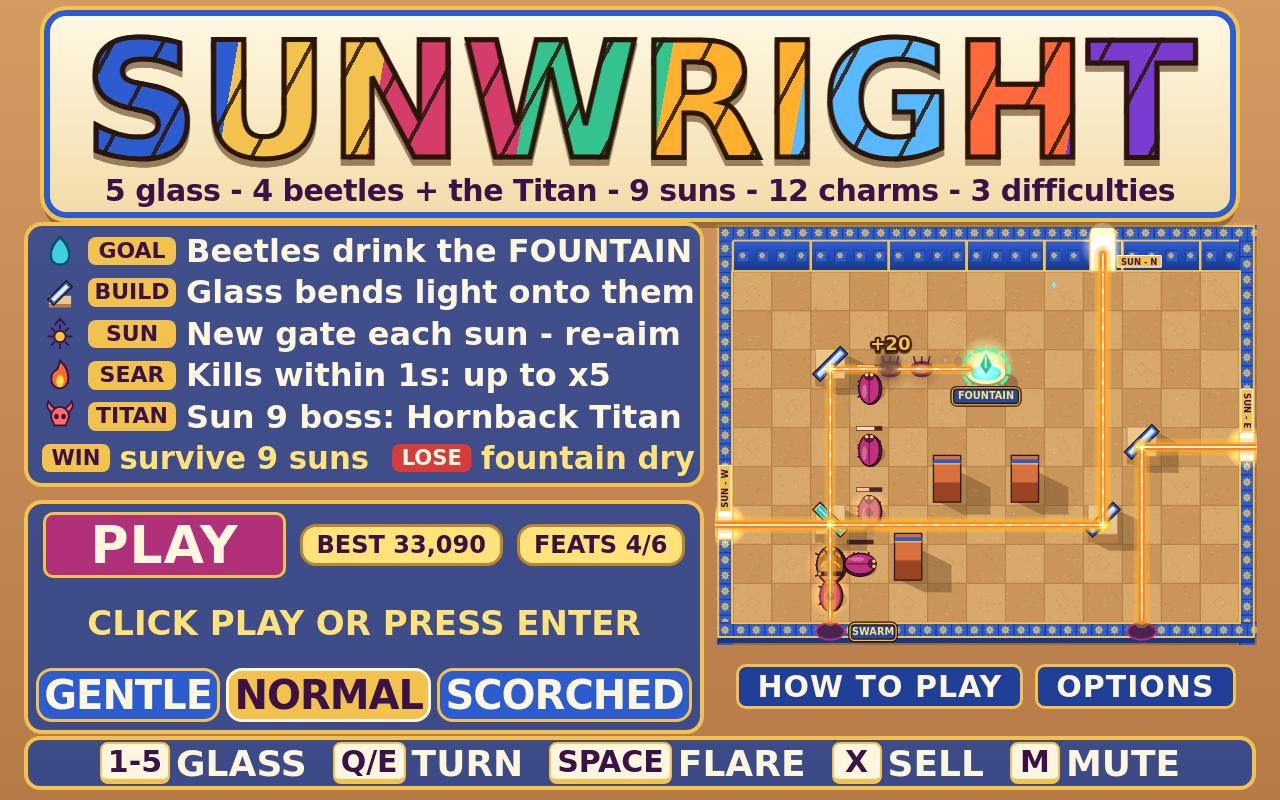
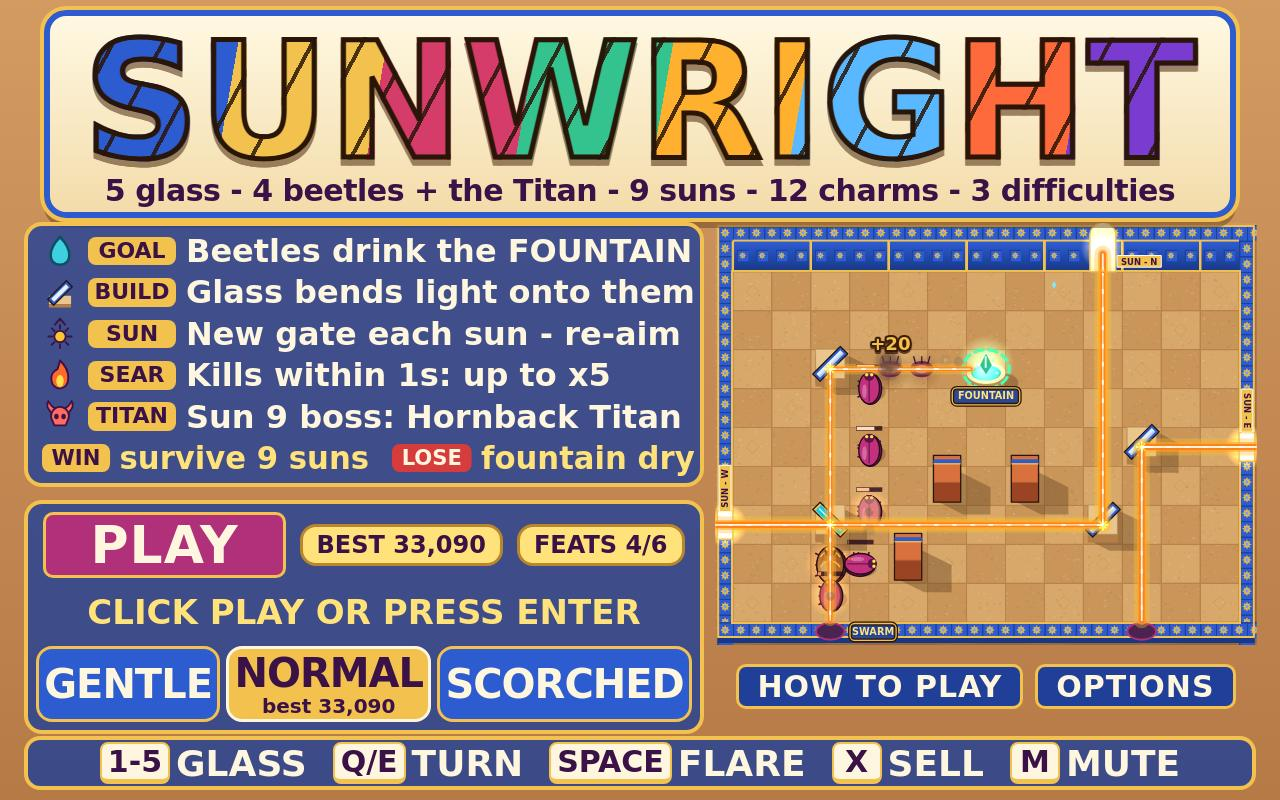
Title: best N under the selected difficulty again (fits the card; checked against the save)

Changed region(s): [[0.0, 0.75, 0.5625, 0.9062]]

diff --git a/game/style.css b/game/style.css
@@ -32,8 +32,9 @@ button.big:hover { background: #cf3f93; }
 .featcount { font: 900 24px system-ui, sans-serif; color: #3b1247; background: #ffe27a; border: 3px solid #b8862c; border-radius: 16px; padding: 4px 14px; white-space: nowrap; }
 .start-hint { margin: 0; font: 900 34px system-ui, sans-serif; color: #ffe27a; white-space: nowrap; letter-spacing: 0; }
 .picker { display: flex; gap: 6px; width: 100%; }
-.diff { flex: 1 1 auto; display: flex; justify-content: center; align-items: center; padding: 2px 4px; background: #2d5bd0; border-radius: 16px; letter-spacing: -1px; }
+.diff { flex: 1 1 auto; display: flex; flex-direction: column; justify-content: center; align-items: center; padding: 2px 4px; background: #2d5bd0; border-radius: 16px; letter-spacing: -1px; }
 .diff b { font-size: 40px; line-height: 1.1; }
+.diff small { font: 800 20px system-ui, sans-serif; letter-spacing: 0; line-height: 1.1; }
 .diff.on { background: #f2c14e; color: #3b1247; border-color: #fff6df; }
 .title-links { position: absolute; left: 716px; right: 24px; top: 664px; display: flex; justify-content: center; gap: 12px; }
 .title-links button { font-size: 30px; padding: 2px 18px; }

diff --git a/game/src/ui/menus.js b/game/src/ui/menus.js
@@ -56,7 +56,10 @@ export function renderOptions(settings) {
 /** Difficulty buttons (one word each; the BEST chip shows the selected one's best), the scope line, the rules table. */
 export function showTitle(menus, bestFor, selected) {
   el('difficulty-picker').innerHTML = DIFFICULTY_ORDER.map((id) => {
-    return `<button class="diff ${id === selected ? 'on' : ''}" data-action="difficulty" data-arg="${id}"><b>${DIFFICULTIES[id].name}</b></button>`;
+    // The selected difficulty also shows its saved best under its name.
+    const best = id === selected ? bestFor(id) : null;
+    const line = best?.played ? `<small>best ${best.score.toLocaleString('en-US')}</small>` : '';
+    return `<button class="diff ${id === selected ? 'on' : ''}" data-action="difficulty" data-arg="${id}"><b>${DIFFICULTIES[id].name}</b>${line}</button>`;
   }).join('');
   el('rule-scope').textContent = SCOPE_LINE;
   el('feats-count').textContent = `FEATS ${loadFeats().length}/${FEATS.length}`;

diff --git a/NOTES.md b/NOTES.md
@@ -369,6 +369,9 @@
   combat.runLine, checked against the save's best before the run) and the charm names (14 px short
   names under 48 px icons). Spacing trimmed to fit the 24 px margin (rank ring 104 px).
 
+- Restore item 4: title keeps the 6-row rules table and one-word difficulty buttons; the selected one
+  shows `best 33,090` under its name (20 px; checked against the save and the title-card bounds).
+
 ## Next
 - READY FOR A/B (01:00 UTC): bold beams + the three cues on top of 61673e1 (FEATS, GLASS legend,
   INCOMING tags, HUD buttons, SUNSTONE chip, title rules table kept). Verified on the final state:
